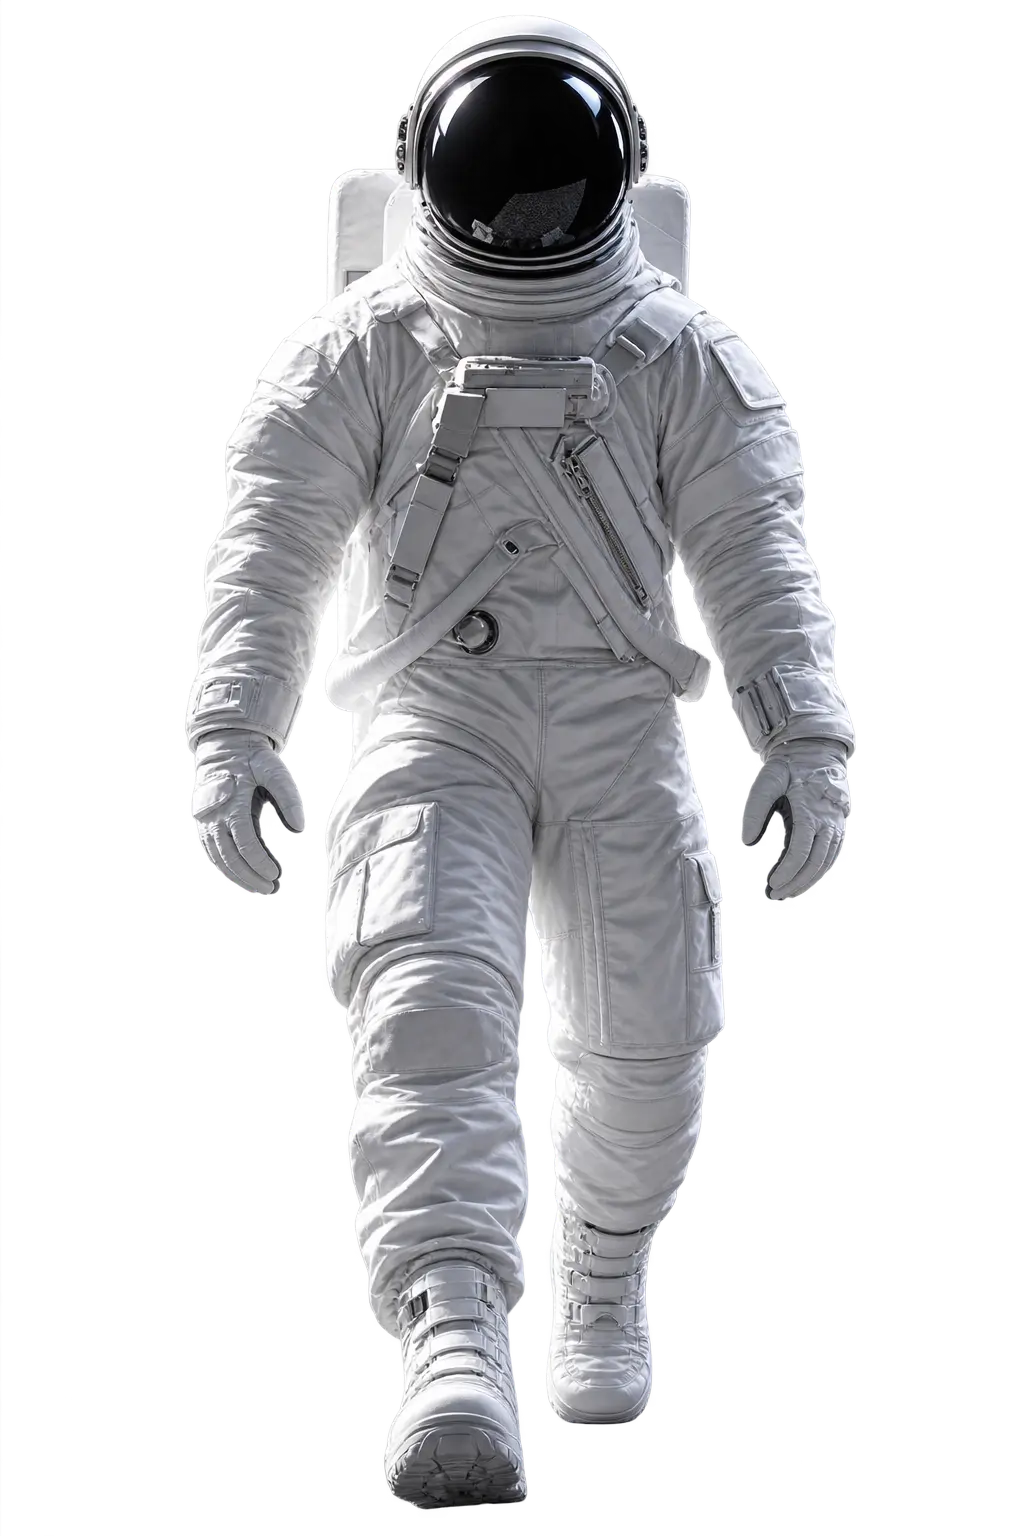
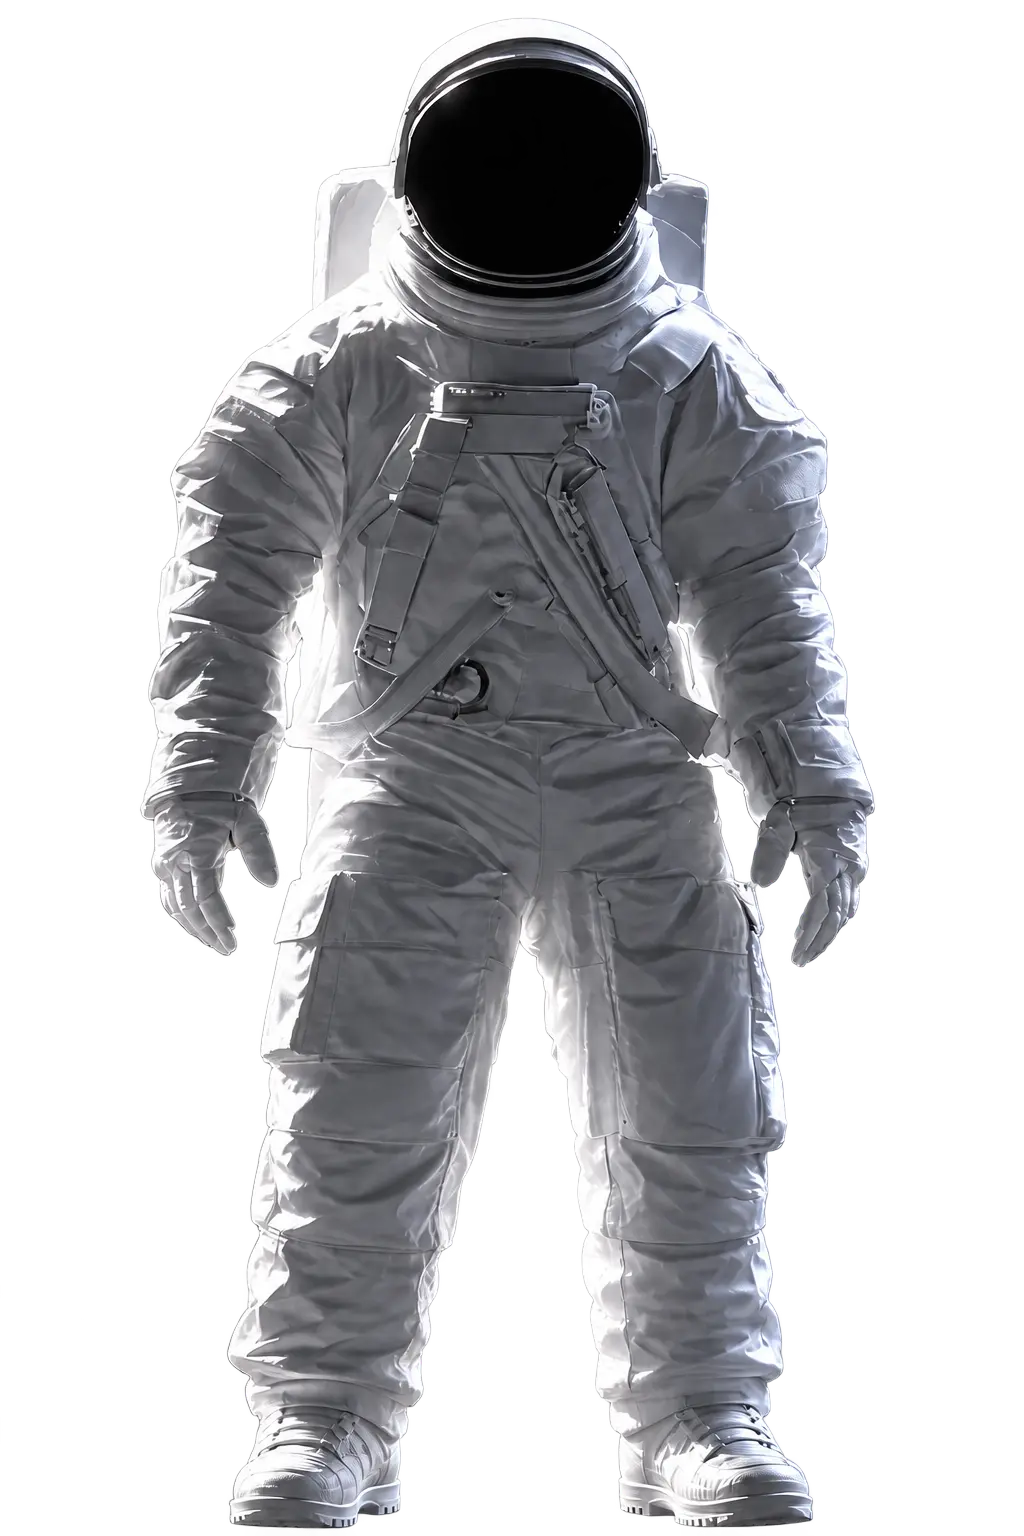
Planet 13th

diff --git a/src/components/phases/Home/Phase2.jsx b/src/components/phases/Home/Phase2.jsx
@@ -17,6 +17,35 @@ const PEEK_REVEAL_PERCENT = 12;
 const FLATTEN_TARGET_VIEWPORT_FRACTION = 0.02;
 const SEAM_OVERLAP_PX = 2;
 
+const REFERENCE_VIEWPORT = 1440;
+const MIN_VIEWPORT = 375;
+const MAX_VIEWPORT = 1920;
+
+const fluid = (px, options = {}) => {
+    const vw = (px / REFERENCE_VIEWPORT) * 100;
+    const min = options.min ?? (vw / 100) * MIN_VIEWPORT;
+    const max = options.max ?? (vw / 100) * MAX_VIEWPORT;
+    return `clamp(${min.toFixed(2)}px, ${vw.toFixed(4)}vw, ${max.toFixed(2)}px)`;
+};
+
+const fluidValue = (px, viewport) => {
+    const ratio = px / REFERENCE_VIEWPORT;
+    return Math.min(
+        ratio * MAX_VIEWPORT,
+        Math.max(ratio * MIN_VIEWPORT, ratio * viewport)
+    );
+};
+
+const CONTENT_WIDTH = fluid(547, { min: 320 });
+const CONTENT_HEIGHT = fluid(142, { min: 88 });
+const SLIDE_FONT_SIZE = fluid(120, { min: 64 });
+const LOGO_WIDTH = fluid(90, { min: 56 });
+const TRACK_GAP = fluid(8);
+const HEADER_PADDING_X = fluid(80);
+const HEADER_PADDING_TOP = fluid(48);
+const HEADER_FONT_SIZE = fluid(11, { min: 11 });
+const BORDER_WIDTH = fluid(6);
+
 export default function Phase2() {
     const slideContent = [
         { image: "/logo/O.svg" },
@@ -34,8 +63,6 @@ export default function Phase2() {
     const curvePathRef = useRef(null);
     const cornerDepthRef = useRef(getCornerDepth(1440));
     const flattenProgressRef = useRef(0);
-    // True only once InfiniteImageColumns confirms (via GSAP's real onStart)
-    // that it has actually begun sliding — the peek reveal waits on this.
     const columnsSlidingRef = useRef(false);
 
     const [viewportWidth, setViewportWidth] = useState(() =>
@@ -64,8 +91,8 @@ export default function Phase2() {
         const slides = slideRefs.current;
         if (!section || !content || !track || slides.length === 0) return;
 
+        content.style.borderWidth = BORDER_WIDTH;
         gsap.set(content, {
-            borderWidth: "6px",
             borderStyle: "solid",
             borderColor: "#000000",
         });
@@ -77,8 +104,8 @@ export default function Phase2() {
 
             const stepDistance = window.innerHeight * 0.8;
             const scaleDistance = window.innerHeight * 0.8;
-            const gapDistance = window.innerHeight * 0.5;       // column-gap spread animation
-            const revealDistance = window.innerHeight * 0.6;    // pure scroll room for the peek, AFTER gap is done
+            const gapDistance = window.innerHeight * 0.5;
+            const revealDistance = window.innerHeight * 0.6;
 
             const slidesDistance = stepDistance * last;
             const totalDistance =
@@ -91,7 +118,9 @@ export default function Phase2() {
             const revealFraction = revealDistance / totalDistance;
 
             const scaleEndFraction = slidesFraction + scaleFraction;
-            const gapEndFraction = scaleEndFraction + gapFraction; // gap animation truly complete here
+            const gapEndFraction = scaleEndFraction + gapFraction;
+
+            const columnGapTarget = `${fluidValue(24, window.innerWidth).toFixed(2)}px`;
 
             const tl = gsap.timeline();
             for (let i = 1; i <= last; i++) {
@@ -109,8 +138,8 @@ export default function Phase2() {
             });
             if (bgRef.current?.el) {
                 tl.to(bgRef.current.el, {
-                    "--column-gap": "24px",
-                    "--row-gap": "24px",
+                    "--column-gap": columnGapTarget,
+                    "--row-gap": columnGapTarget,
                     ease: "none",
                     duration: gapFraction,
                     onComplete: () => {
@@ -125,8 +154,6 @@ export default function Phase2() {
                         ScrollTrigger.update();
                     },
                 });
-                // Pure hold, no visual change — reserves scroll room so the
-                // gap tween above genuinely finishes at gapEndFraction.
                 tl.to({}, { duration: revealFraction });
             }
 
@@ -138,10 +165,6 @@ export default function Phase2() {
                 scrub: 1,
                 anticipatePin: 1,
                 snap: {
-                    // Only snap between slide steps. Past that point, let the
-                    // scale/gap/reveal chain scrub 1:1 with real scroll input —
-                    // this was previously jumping straight from the last slide
-                    // to progress===1, skipping scale/gap/reveal entirely.
                     snapTo: (progress) => {
                         if (progress >= slidesFraction) return progress;
                         const stepSnaps = Array.from({ length: last }, (_, i) => i * stepSize);
@@ -206,8 +229,16 @@ export default function Phase2() {
             </div>
 
             <div id="phase2-content" ref={contentRef} className="bg-black relative z-10 w-full min-h-screen">
-                <div className="relative flex items-center justify-between px-20 pt-12 text-neutral-500 text-[11px] font-dm-mono">
-                    <div>
+                <div
+                    className="relative flex flex-row items-center sm:justify-between gap-3 sm:gap-0 text-center sm:text-left text-neutral-500 font-dm-mono"
+                    style={{
+                        paddingLeft: HEADER_PADDING_X,
+                        paddingRight: HEADER_PADDING_X,
+                        paddingTop: HEADER_PADDING_TOP,
+                        fontSize: HEADER_FONT_SIZE,
+                    }}
+                >
+                    <div className="hidden sm:block">
                         <p>
                             Looking for your next
                             <br />
@@ -215,26 +246,35 @@ export default function Phase2() {
                         </p>
                     </div>
 
-                    <div className="absolute left-1/2 -translate-x-1/2">
+                    <div className="m-auto translate-y-5 sm:translate-y-0  static sm:absolute sm:left-1/2 sm:-translate-x-1/2">
                         Orbition Creative
                     </div>
 
-                    <div>We Are here to help {":)"}</div>
+                    <div className="hidden sm:block">We Are here to help {":)"}</div>
                 </div>
 
-                <div className="w-[547px] h-[142px] absolute left-1/2 -translate-x-1/2 top-1/2 -translate-y-1/2 overflow-hidden">
-                    <div ref={trackRef} className="flex flex-col gap-2 font-founders-power">
+                <div
+                    className="absolute left-1/2 -translate-x-1/2 top-1/2 -translate-y-1/2 overflow-hidden"
+                    style={{ width: CONTENT_WIDTH, height: CONTENT_HEIGHT }}
+                >
+                    <div
+                        ref={trackRef}
+                        className="flex flex-col font-founders-power"
+                        style={{ gap: TRACK_GAP }}
+                    >
                         {slideContent.map((slide, i) => (
                             <div
                                 key={i}
                                 ref={(el) => (slideRefs.current[i] = el)}
-                                className="h-[142px] flex items-center justify-center text-white text-center text-[120px] leading-none"
+                                className="flex items-center justify-center text-white text-center leading-none"
+                                style={{ height: CONTENT_HEIGHT, fontSize: SLIDE_FONT_SIZE }}
                             >
                                 {slide.text || (
                                     <img
-                                        className="w-[90px] object-contain"
+                                        className="object-contain"
                                         src={slide.image}
                                         alt={`Slide ${i + 1}`}
+                                        style={{ width: LOGO_WIDTH }}
                                     />
                                 )}
                             </div>

diff --git a/src/components/animations/InfiniteImageColumns.jsx b/src/components/animations/InfiniteImageColumns.jsx
@@ -1,7 +1,6 @@
-// src/components/animations/InfiniteImageColumns.jsx
 "use client";
 
-import { forwardRef, useEffect, useImperativeHandle, useRef, useState } from "react";
+import { forwardRef, useEffect, useImperativeHandle, useRef } from "react";
 import gsap from "gsap";
 
 const COLUMNS = [
@@ -10,21 +9,22 @@ const COLUMNS = [
     ["3-1", "3-2", "3-3"],
 ];
 
-const BASE_IMAGE_WIDTH = 515;
-const BASE_IMAGE_HEIGHT = 354;
-const ASPECT = BASE_IMAGE_WIDTH / BASE_IMAGE_HEIGHT;
+const REFERENCE_VIEWPORT = 1440;
+const MIN_VIEWPORT = 375;
+const MAX_VIEWPORT = 1920;
 
-const LAYOUT_BY_BREAKPOINT = {
-    mobile: { columns: 1, width: 300 },  // 375px and up
-    tablet: { columns: 2, width: 340 },  // 640px and up
-    desktop: { columns: 3, width: BASE_IMAGE_WIDTH }, // 1024px and up — original size
+const REFERENCE_IMAGE_WIDTH = 515;
+const REFERENCE_IMAGE_HEIGHT = 354;
+
+const fluid = (px) => {
+    const vw = (px / REFERENCE_VIEWPORT) * 100;
+    const min = (vw / 100) * MIN_VIEWPORT;
+    const max = (vw / 100) * MAX_VIEWPORT;
+    return `clamp(${min.toFixed(2)}px, ${vw.toFixed(4)}vw, ${max.toFixed(2)}px)`;
 };
 
-const getBreakpoint = (width) => {
-    if (width >= 1024) return "desktop";
-    if (width >= 640) return "tablet";
-    return "mobile";
-};
+const IMAGE_WIDTH = fluid(REFERENCE_IMAGE_WIDTH);
+const ASPECT_RATIO = `${REFERENCE_IMAGE_WIDTH} / ${REFERENCE_IMAGE_HEIGHT}`;
 
 const InfiniteImageColumns = forwardRef(function InfiniteImageColumns(
     { className = "" },
@@ -35,32 +35,9 @@ const InfiniteImageColumns = forwardRef(function InfiniteImageColumns(
     const tweens = useRef([]);
     const isRunningRef = useRef(false);
 
-    const [breakpoint, setBreakpoint] = useState(() =>
-        typeof window !== "undefined" ? getBreakpoint(window.innerWidth) : "desktop"
-    );
-
-    useEffect(() => {
-        const handleResize = () => {
-            const next = getBreakpoint(window.innerWidth);
-            setBreakpoint((prev) => (prev === next ? prev : next));
-        };
-        handleResize();
-        window.addEventListener("resize", handleResize);
-        return () => window.removeEventListener("resize", handleResize);
-    }, []);
-
-    const { columns, width: imageWidth } = LAYOUT_BY_BREAKPOINT[breakpoint];
-    const imageHeight = Math.round(imageWidth / ASPECT);
-    const visibleColumns = COLUMNS.slice(0, columns);
-
-    // (Re)builds the tween for one column. Kill-without-touching-y means a
-    // rebuild — whether from startLoop or a dimension change — always
-    // continues from wherever the track currently sits, never resets to 0.
-    // onFirstFrame (only ever passed for column 0) fires on GSAP's real
-    // onStart — the actual confirmation that this column began moving.
     const buildOne = (i, track, onFirstFrame) => {
         const distance = track.scrollHeight / 2;
-        if (!distance) return; // not laid out yet
+        if (!distance) return;
 
         tweens.current[i]?.kill();
 
@@ -75,18 +52,22 @@ const InfiniteImageColumns = forwardRef(function InfiniteImageColumns(
             onStart: i === 0 ? onFirstFrame : undefined,
         });
 
-        // Rebuilding for a resize shouldn't start playback on its own —
-        // only keep it running if the loop was already running.
         if (!isRunningRef.current) {
             tweens.current[i].pause();
         }
     };
 
+    const rebuildAll = () => {
+        trackRefs.current.forEach((track, i) => {
+            if (!track) return;
+            if (tweens.current[i] || isRunningRef.current) {
+                buildOne(i, track);
+            }
+        });
+    };
+
     useImperativeHandle(ref, () => ({
         el: gridRef.current,
-        // onConfirmSliding fires once column 0's tween actually starts
-        // moving. If it's already running (e.g. called again without a
-        // stopLoop in between), sliding is already confirmed — fire right away.
         startLoop: (onConfirmSliding) => {
             isRunningRef.current = true;
             trackRefs.current.forEach((track, i) => {
@@ -99,24 +80,23 @@ const InfiniteImageColumns = forwardRef(function InfiniteImageColumns(
             });
         },
         stopLoop: () => {
-            // freeze in place — no reset, so reversing never jumps
             isRunningRef.current = false;
             tweens.current.forEach((tw) => tw?.pause());
         },
     }));
 
     useEffect(() => {
-        trackRefs.current.forEach((track, i) => {
-            if (!track) {
-                tweens.current[i]?.kill();
-                tweens.current[i] = null;
-                return;
-            }
-            if (tweens.current[i] || isRunningRef.current) {
-                buildOne(i, track);
-            }
-        });
-    }, [breakpoint]);
+        let timeout;
+        const handleResize = () => {
+            clearTimeout(timeout);
+            timeout = setTimeout(rebuildAll, 200);
+        };
+        window.addEventListener("resize", handleResize);
+        return () => {
+            window.removeEventListener("resize", handleResize);
+            clearTimeout(timeout);
+        };
+    }, []);
 
     useEffect(() => {
         return () => {
@@ -129,16 +109,16 @@ const InfiniteImageColumns = forwardRef(function InfiniteImageColumns(
             ref={gridRef}
             className={`grid ${className}`}
             style={{
-                gridTemplateColumns: `repeat(${columns}, ${imageWidth}px)`,
+                gridTemplateColumns: `repeat(3, ${IMAGE_WIDTH})`,
                 columnGap: "var(--column-gap, 0px)",
                 height: "100%",
             }}
         >
-            {visibleColumns.map((images, colIndex) => (
+            {COLUMNS.map((images, colIndex) => (
                 <div
                     key={colIndex}
                     className="relative h-full overflow-hidden"
-                    style={{ width: imageWidth }}
+                    style={{ width: IMAGE_WIDTH }}
                 >
                     <div
                         ref={(el) => (trackRefs.current[colIndex] = el)}
@@ -150,10 +130,10 @@ const InfiniteImageColumns = forwardRef(function InfiniteImageColumns(
                                 key={i}
                                 src={`/images/${name}.png`}
                                 alt={name}
-                                width={imageWidth}
-                                height={imageHeight}
-                                className="object-cover shrink-0"
-                                style={{ width: imageWidth, height: imageHeight }}
+                                width={REFERENCE_IMAGE_WIDTH}
+                                height={REFERENCE_IMAGE_HEIGHT}
+                                className="w-full shrink-0 object-cover"
+                                style={{ aspectRatio: ASPECT_RATIO }}
                             />
                         ))}
                     </div>

diff --git a/src/components/phases/Home/Phase7.jsx b/src/components/phases/Home/Phase7.jsx
@@ -171,7 +171,7 @@ export default function Phase7() {
                     scrollTrigger: {
                         trigger: sectionRef.current,
                         start: 'top top',
-                        end: '+=2500', // was +=2400 — extended to fit the new buffer segment
+                        end: '+=2000', 
                         pin: true,
                         scrub: 1,
                         anticipatePin: 1,
@@ -205,13 +205,6 @@ export default function Phase7() {
 
                 tl.addLabel('start');
 
-                // Idle buffer sitting right at the pin boundary. Wrapper is still
-                // opacity:0 here (from the initial gsap.set), so nothing is visually
-                // different on forward scroll — but on reverse scroll this buffer is the
-                // LAST thing to play before the raw scroll crosses the unpin boundary,
-                // giving the scrub-lagged opacity tween real time to finish reaching 0
-                // before the pin actually releases. It is intentionally NOT a snap target
-                // (see snapTo above) so forward scroll can't get pulled back into it.
                 tl.to({}, {
                     duration: 300,
                 });

diff --git a/src/lib/Fluid.js b/src/lib/Fluid.js
@@ -1,0 +1,17 @@
+const DESIGN_VIEWPORT = 1440;
+const MIN_VIEWPORT = 375;
+const MAX_VIEWPORT = 1920;
+
+export function fluid(px, { min = MIN_VIEWPORT, max = MAX_VIEWPORT, base = DESIGN_VIEWPORT, minPx, maxPx } = {}) {
+    const lo = minPx ?? +(px * (min / base)).toFixed(3);
+    const hi = maxPx ?? +(px * (max / base)).toFixed(3);
+    const vw = +((px / base) * 100).toFixed(4);
+    return `clamp(${lo}px, ${vw}vw, ${hi}px)`;
+}
+
+export function fluidValue(px, viewportWidth, { min = MIN_VIEWPORT, max = MAX_VIEWPORT, base = DESIGN_VIEWPORT, minPx, maxPx } = {}) {
+    const lo = minPx ?? px * (min / base);
+    const hi = maxPx ?? px * (max / base);
+    const raw = px * (viewportWidth / base);
+    return Math.min(Math.max(raw, lo), hi);
+}

diff --git a/src/components/phases/Home/Phase3.jsx b/src/components/phases/Home/Phase3.jsx
@@ -243,7 +243,7 @@ const height = size;
     return (
         <section
             ref={sectionRef}
-            className="relative z-[999] bg-[#F3F3F3] min-h-screen overflow-hidden px-5 sm:px-8 md:px-12 lg:px-20"
+            className="relative z-[999] bg-[#F3F3F3] -mt-1 min-h-screen overflow-hidden px-5 sm:px-8 md:px-12 lg:px-20"
         >
             <div ref={plusLayerRef} className="absolute inset-0 z-0" />
             <div ref={cursorLayerRef} className="absolute inset-0 z-0 pointer-events-none" />
